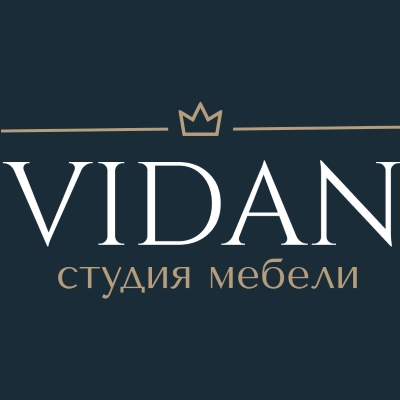
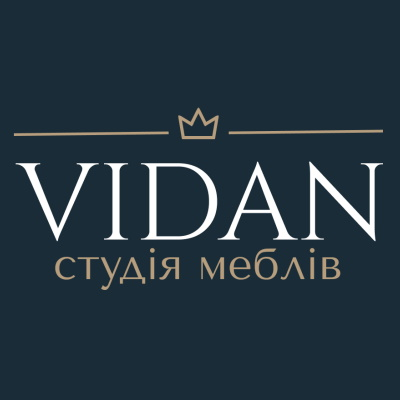
vidan

Changed region(s): [[0.0, 0.39, 1.0, 0.75], [0.42, 0.24, 1.0, 0.36], [0.0, 0.3, 0.42, 0.36]]

diff --git a/index.html b/index.html
@@ -5,14 +5,14 @@
     <meta http-equiv="X-UA-Compatible" content="IE=edge">
     <meta name="viewport" content="width=device-width, initial-scale=1.0">
     <meta property="og:title" content="VidanMebel">
-    <meta property="og:description" content="Производим корпусную мебель, Итальянская технология, более 10 лет опыта работы в сфере мебели. Качественно, быстро и надежно.">
+    <meta property="og:description" content="Виробляємо меблі на замовлення. Італійська технологія, більше 10 років досвіду. Якісно, швидко, надійно.">
     <meta property="og:image" content="https://vidanmebel.com/images/Vidan_OG.jpg">
     <meta property="og:image:type" content="image/jpeg"> 
     <meta property="og:image:width" content="400"> 
     <meta property="og:image:height" content="300">
     <meta property="og:type" content="website">
     <meta property="og:url" content="https://vidanmebel.com/">
-    <meta name="description" content="Производим корпусную мебель, Итальянская технология, более 10 лет опыта работы в сфере мебели. Качественно, быстро и надежно.">
+    <meta name="description" content="Виробляємо меблі на замовлення. Італійська технологія, більше 10 років досвіду. Якісно, швидко, надійно.">
     <meta name="keywords" content="Мебель, магазин мебели, видан, Vidan, купить мебель Киев, заказать мебель, мебель Укрина, мебель Киев">
     <link rel="stylesheet" href="styles/style.css">
     <script src="https://ajax.googleapis.com/ajax/libs/jquery/3.4.1/jquery.min.js"></script>

diff --git a/styles/style.css b/styles/style.css
@@ -110,7 +110,6 @@ body.hidden{
 .navbar__item button{
     color: #AD9C7E;
     font-family: "Gilroy Light";
-    text-transform: capitalize;
     font-size: 20px;
     border: solid 1px #AD9C7E;
     background: none;
